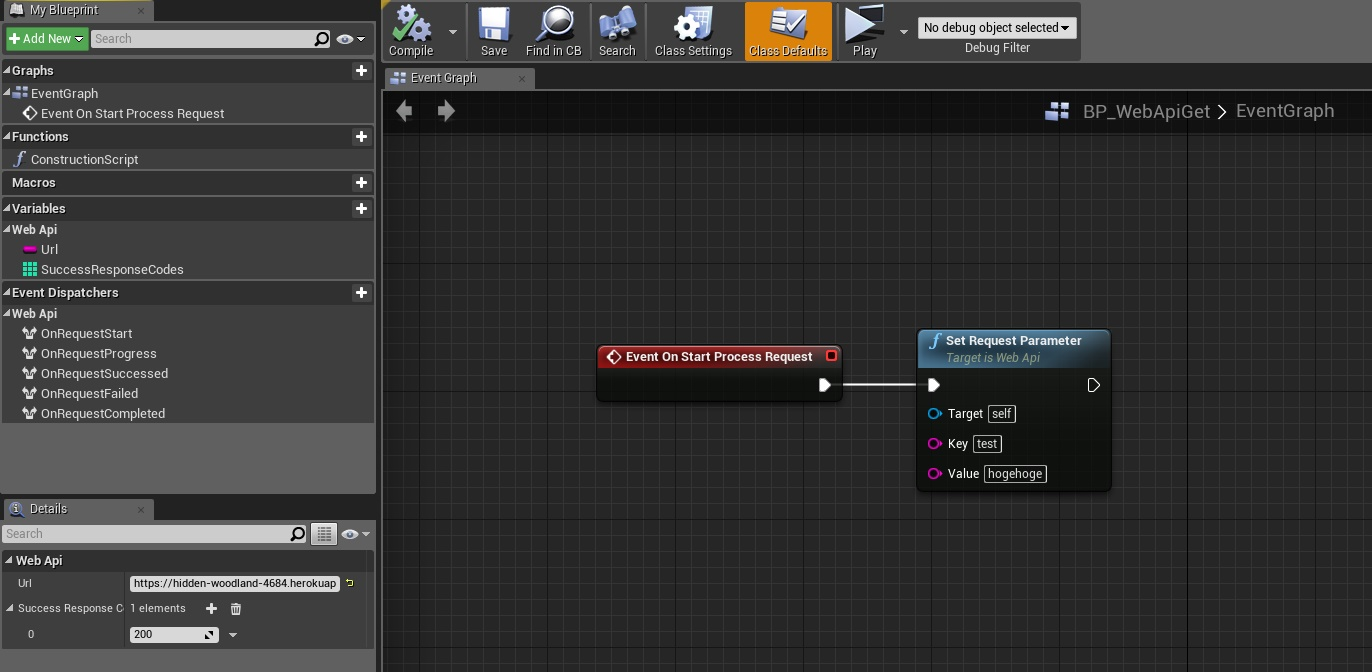
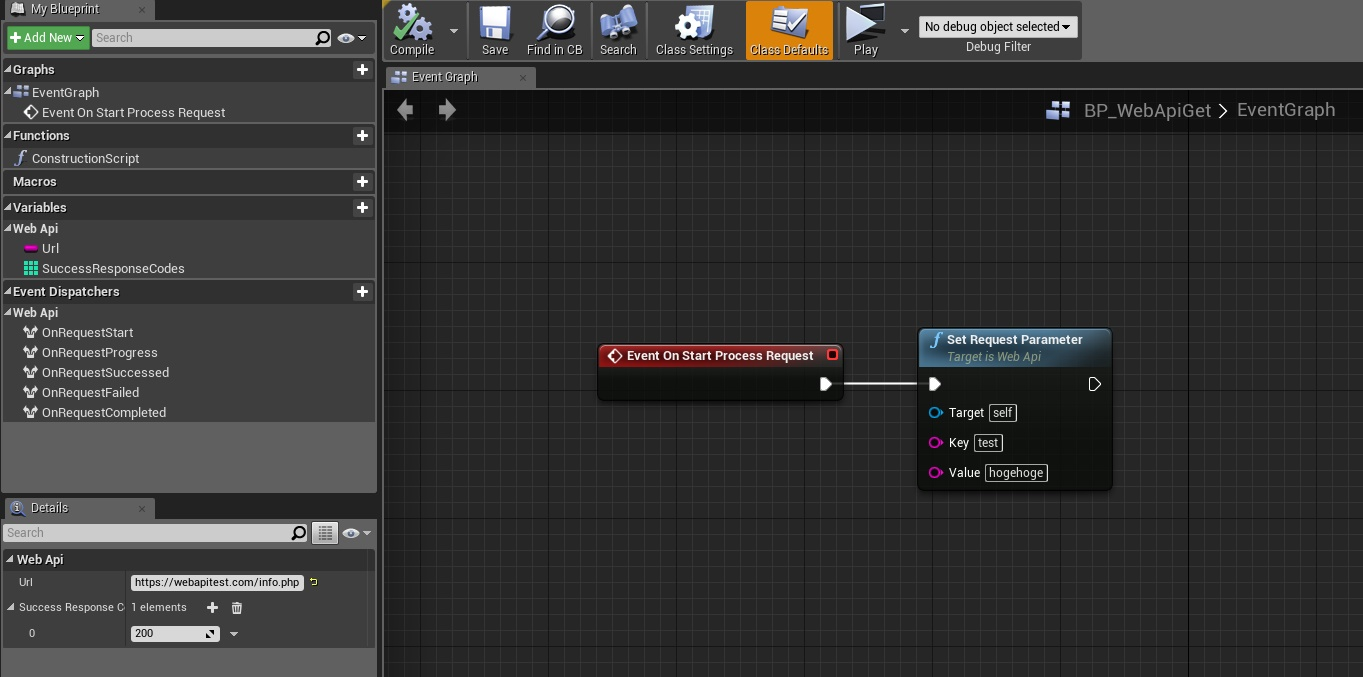
add example SimplePost

Changed region(s): [[0.0, 0.0, 1.0, 1.0], [0.4314, 0.4688, 0.832, 0.7188]]

diff --git a/Examples/02_SimplePost/info.php b/Examples/02_SimplePost/info.php
@@ -1,0 +1,34 @@
+<?php
+
+echo "[SERVER]\n";
+$server = [];
+foreach (["HTTP_USER_AGENT", "REQUEST_METHOD", "REQUEST_URI"] as $key)
+{
+	$server[$key] = $_SERVER[$key];
+}
+var_dump($server);
+echo "\n";
+
+echo "[GET]\n";
+if(!empty($_GET))
+{
+	var_dump($_GET);
+}
+else
+{
+	echo "null\n";
+}
+echo "\n";
+
+echo "[POST]\n";
+// var_dump($_POST);
+$json = file_get_contents('php://input');
+if(!empty($json))
+{
+	var_dump(json_decode($json, true));
+}
+else
+{
+	echo "null\n";
+}
+echo "\n";

diff --git a/Examples/02_SimplePost/README.jp.md b/Examples/02_SimplePost/README.jp.md
@@ -1,0 +1,45 @@
+SimplePost
+==================================
+
+シンプルなPOST通信サンプルです。
+
+## 手順
+
+### 接続先を作成
+
+サーバー上に info.php を配置します。
+
+### Web API クラス定義
+
+Blueprint で WebApi クラスを継承した BP_WebApiPost クラスを作成します。
+
+ClassDefaults から接続先の Url を任意のものに変更します。
+
+![SimplePost_01.jpg](/Examples/02_SimplePost/SimplePost_01.jpg)
+
+ClassSettings から Interfaces に WebApiPreFilterInterface を追加します。
+
+![SimplePost_05.jpg](/Examples/02_SimplePost/SimplePost_05.jpg)
+
+ExecuteWebApiPreFilter に以下の処理を記述します。
+
+1. CreateRequestBody を使用して WebApiRequestBodyJson のインスタンスを作成
+* WebApiRequestBodyUrlParameter から WebApiRequestBodyJson に対して共通項目をコピー
+* Return で返す時に WebApiRequestBody クラスを WebApiRequestBodyJson に変更
+
+![SimplePost_02.jpg](/Examples/02_SimplePost/SimplePost_02.jpg)
+
+### Web API 呼び出し
+
+以下の画像を参考に Web API 呼び出しを記述します。
+
+1. WebApi のインスタンスを作成
+* リクエスト処理成功時イベント（OnRequestSuccessed）にイベントを追加
+* OnRequestSuccessed 内で文字列形式レスポンス（WebApiResponseBodyString）へキャストし、レスポンスを出力
+* ProcessRequest で通信リクエスト開始
+
+![SimplePost_03.jpg](/Examples/02_SimplePost/SimplePost_03.jpg)
+
+### 結果
+
+![SimplePost_04.jpg](/Examples/02_SimplePost/SimplePost_04.jpg)

diff --git a/README.jp.md b/README.jp.md
@@ -12,7 +12,7 @@ UE4 で Web API （HTTP通信）を使用するためのプラグインです。
 
 ## フィルタ機能とは
 
-フィルタ機能はAPI単位での処理を記述するためのものです。
+フィルタ機能はAPI単位での処理を記述するためのものです。  
 これにより様々な Web API で使用できる様な汎用的な作りとなっています。
 
 ### 通信前フィルタでできること
@@ -51,3 +51,8 @@ Project -> Networking -> WebApi
 
 シンプルなGET通信サンプルです。  
 [詳細](/Examples/01_SimpleGet/README.jp.md "README.jp.md")
+
+### SimplePost
+
+シンプルなPOST通信サンプルです。  
+[詳細](/Examples/02_SimplePost/README.jp.md "README.jp.md")

diff --git a/Examples/01_SimpleGet/README.jp.md b/Examples/01_SimpleGet/README.jp.md
@@ -13,7 +13,7 @@
 
 Blueprint で WebApi クラスを継承した BP_WebApiGet クラスを作成します。
 
-* ClassDefaults から 接続先 Url を任意のものに変更します。
+ClassDefaults から接続先の Url を任意のものに変更します。
 
 ![SimpleGet_01.jpg](/Examples/01_SimpleGet/SimpleGet_01.jpg)
 

diff --git a/Examples/02_SimplePost/README.md b/Examples/02_SimplePost/README.md
@@ -1,0 +1,8 @@
+SimplePost
+==================================
+
+It is a simple POST communication example.
+
+[日本語README](/Examples/01_SimplePost/README.jp.md "README.jp.md")
+
+Editing...
